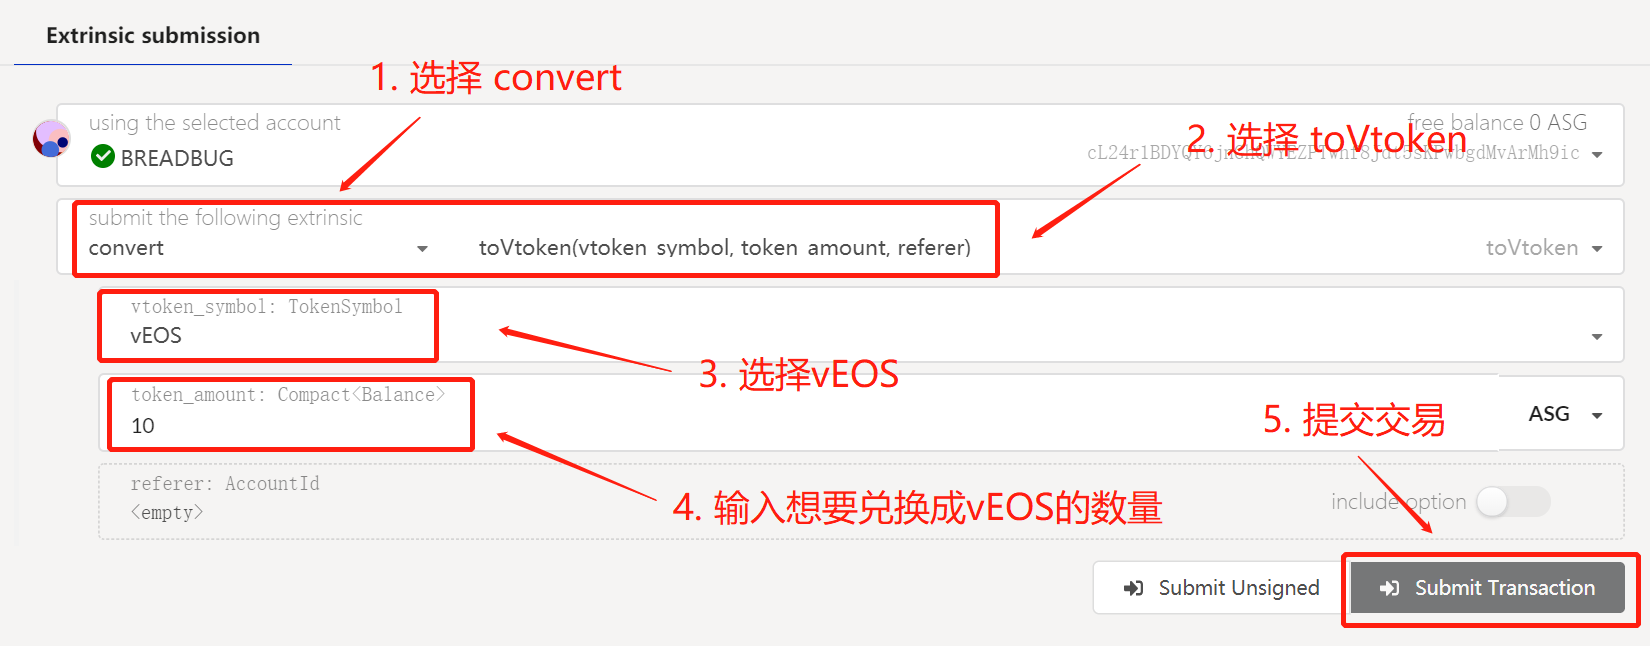
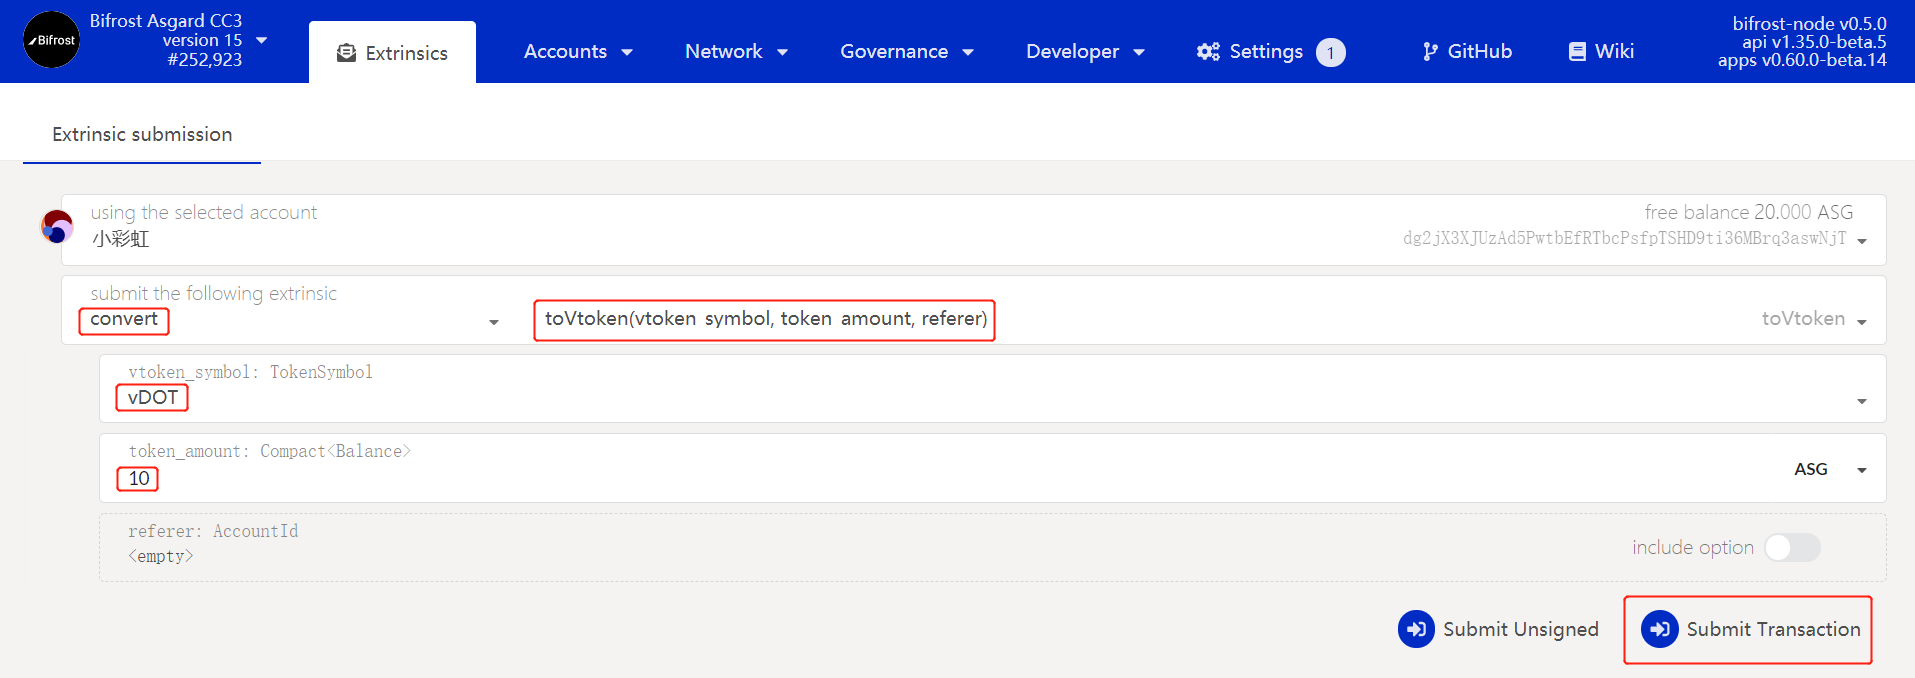
updated token-vtoken tutorial

diff --git a/.vuepress/config.js b/.vuepress/config.js
@@ -537,7 +537,7 @@ module.exports =  {
                     'EOS 测试网跨链转账教程',
                   ],
                   [
-                    '/zh/help/eos-veos-tutorial.md',
+                    '/zh/help/token-vtoken-tutorial.md',
                     'Token 转 vToken 教程',
                   ],
                   [

diff --git a/zh/news/ama-11.md b/zh/news/ama-11.md
@@ -1,10 +1,10 @@
 # DeFi时代，去中心化的百花齐放
 
-`**前言**`
+**前言**
 今年的加密货币行业，DeFi的火热成为行业的亮点。从2014年Maker DAO的诞生，到以太坊DeFi生态开始逐渐成长，再到今年6月DeFi的火爆，DeFi的发展经历了什么样的路径与规律，未来会向着哪些方面去继续快速演进？哪些细分方向会是下一个热点？
  
 9月2日，由Cointelegraph中文主办、波场、本体、达尔文联合主办，NEST、BIFROST特别支持的“马拉松季拉力长跑首场9月DeFi篇”线下活动在上海圆满举办。作为“马拉松季拉力长跑首场9月DeFi篇”的线下启动日，本次活动汇聚了项目方、技术极客、资深投资人、社区爱好者、投研机构、媒体等一线从业者，讨论当下最热DeFi领域，共同探讨去中心化金融的未来发展之路。
 
-`**Bifrost联合创始人 Lurpis**`
+**Bifrost联合创始人 Lurpis**
  
 DeFi应该不仅仅局限于现在完全链上的一些玩法和模式。抽象化一点，DeFi主要解决的是互联网上的信任问题，解决的是下一代互联网的价值传输的问题，如果说下一代如果能够传递价值的话，那去中心化金融就可以涵盖到去融入到各行各业里面去的。目前来说，Bifrost作为质押物衍生品，我们从Staking这个角度去切入，未来将很多资产锚定到链上后，无论它是以NFT形式存在，还是以通用资产形式存在，都具备金融化的属性。质押物需要产生流动性。在这种情况下，质押物它未来在DeFi这个领域里面应该是下一个比较有潜力的爆发的爆点。

diff --git a/zh/help/token-vtoken-tutorial.md b/zh/help/token-vtoken-tutorial.md
@@ -1,0 +1,30 @@
+# Token 转 vToken 教程
+
+1. 电报/币用 [Bifrost Faucet]<https://t.me/bifrost_faucet> 水龙头社区领取测试币 KSM 和 DOT
+
+**注**：一个 Telegram 账号 24 小时领取一次测试 Token，领取格式请参考： /want bifrost 地址，目前支持 KSM-vKSM 的兑换。
+
+2. 打开 [Bifrost Dash]<https://dash.bifrost.finance/>
+
+3. 选择 `Developer` 进入`Extrinsics`
+
+<img :src="$withBase('/zh/convert-veos/convert-veos-01.png')" alt="" />
+
+4. 选择 Convert 信息，并输入想要兑换的 vToken 数量，点击 `Submit Transaction` 提交交易
+
+<img :src="$withBase('/zh/convert-veos/convert-veos-02.png')" alt="" />
+
+5. 输入密码，点击`Sign and Submit`
+
+<img :src="$withBase('/zh/convert-veos/convert-veos-03.png')" alt="" />
+
+6. 兑换成功
+
+<img :src="$withBase('/zh/convert-veos/convert-veos-04.png')" alt="" />
+
+7. 返回`Accounts`查看 vDOT 数量
+**注**：  DOT : vDOT = 1 : 100
+
+<img :src="$withBase('/zh/convert-veos/convert-veos-05.png')" alt="" />
+
+以上就是测试 Token 转 vToken 兑换教程，其他测试 Token 同理~有时由于网络原因，转账等候广播时间稍长。可以尝试切换 Bifrost 节点，查看 Accounts 中的 vToken 数量。
